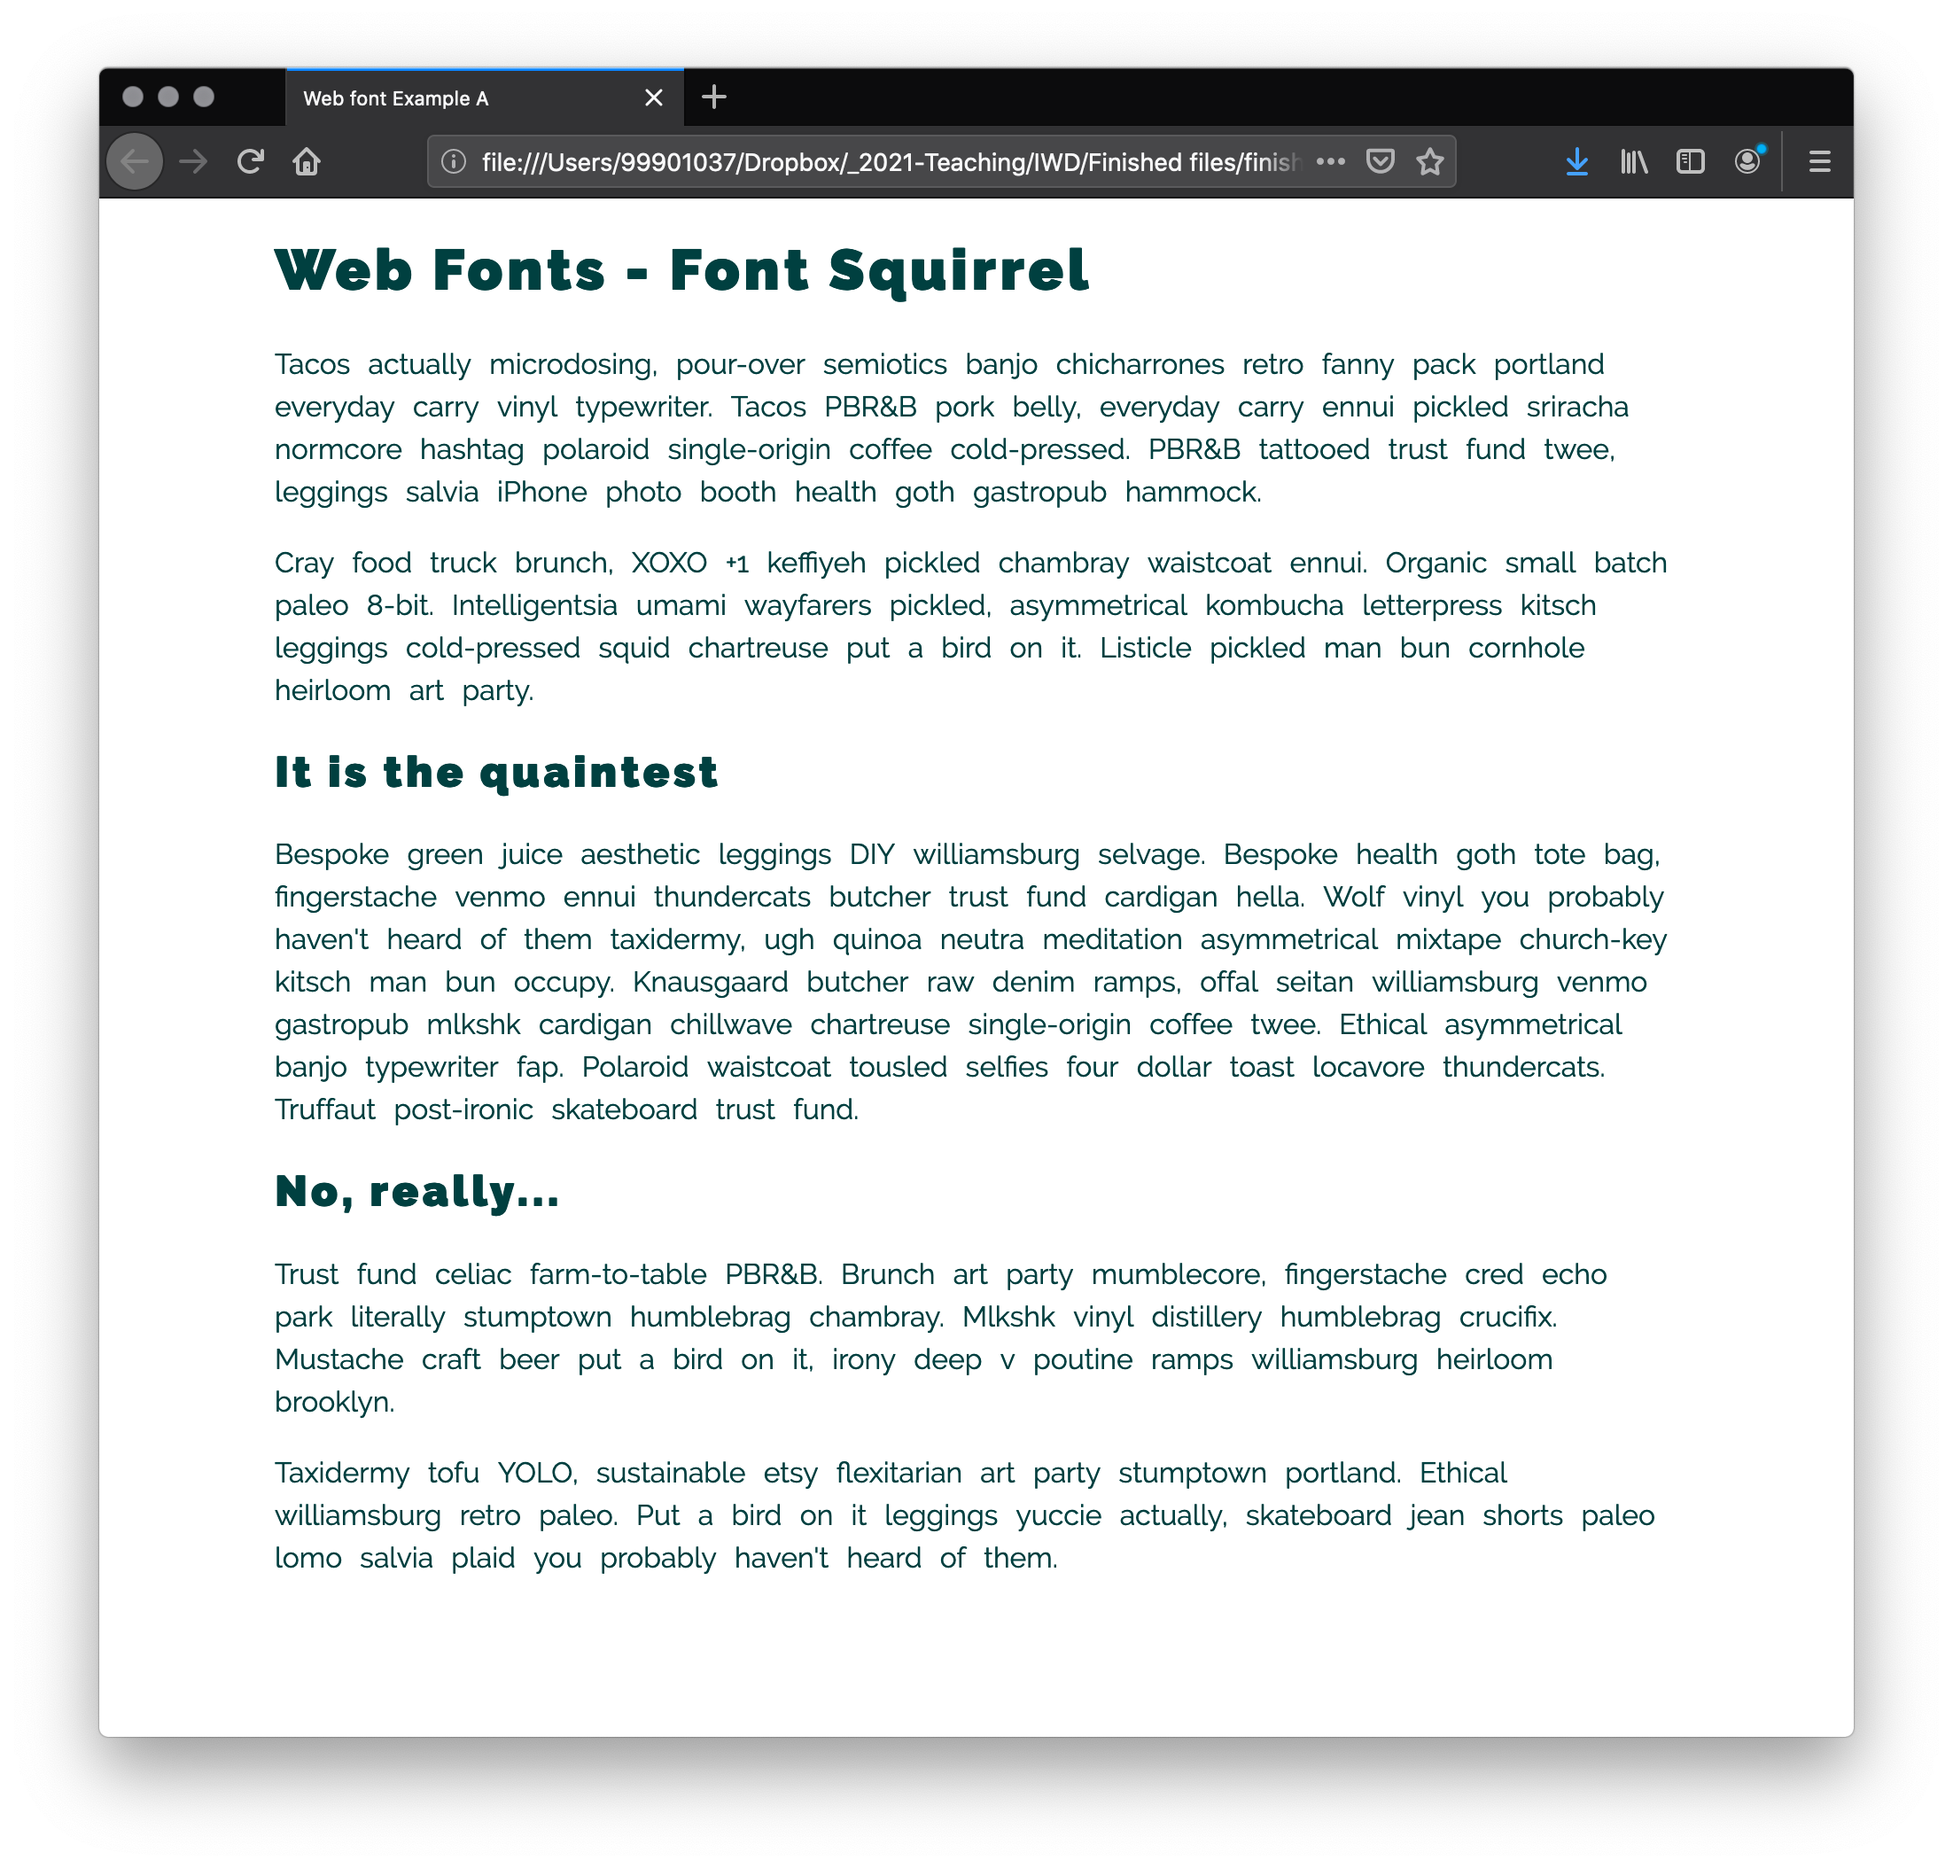
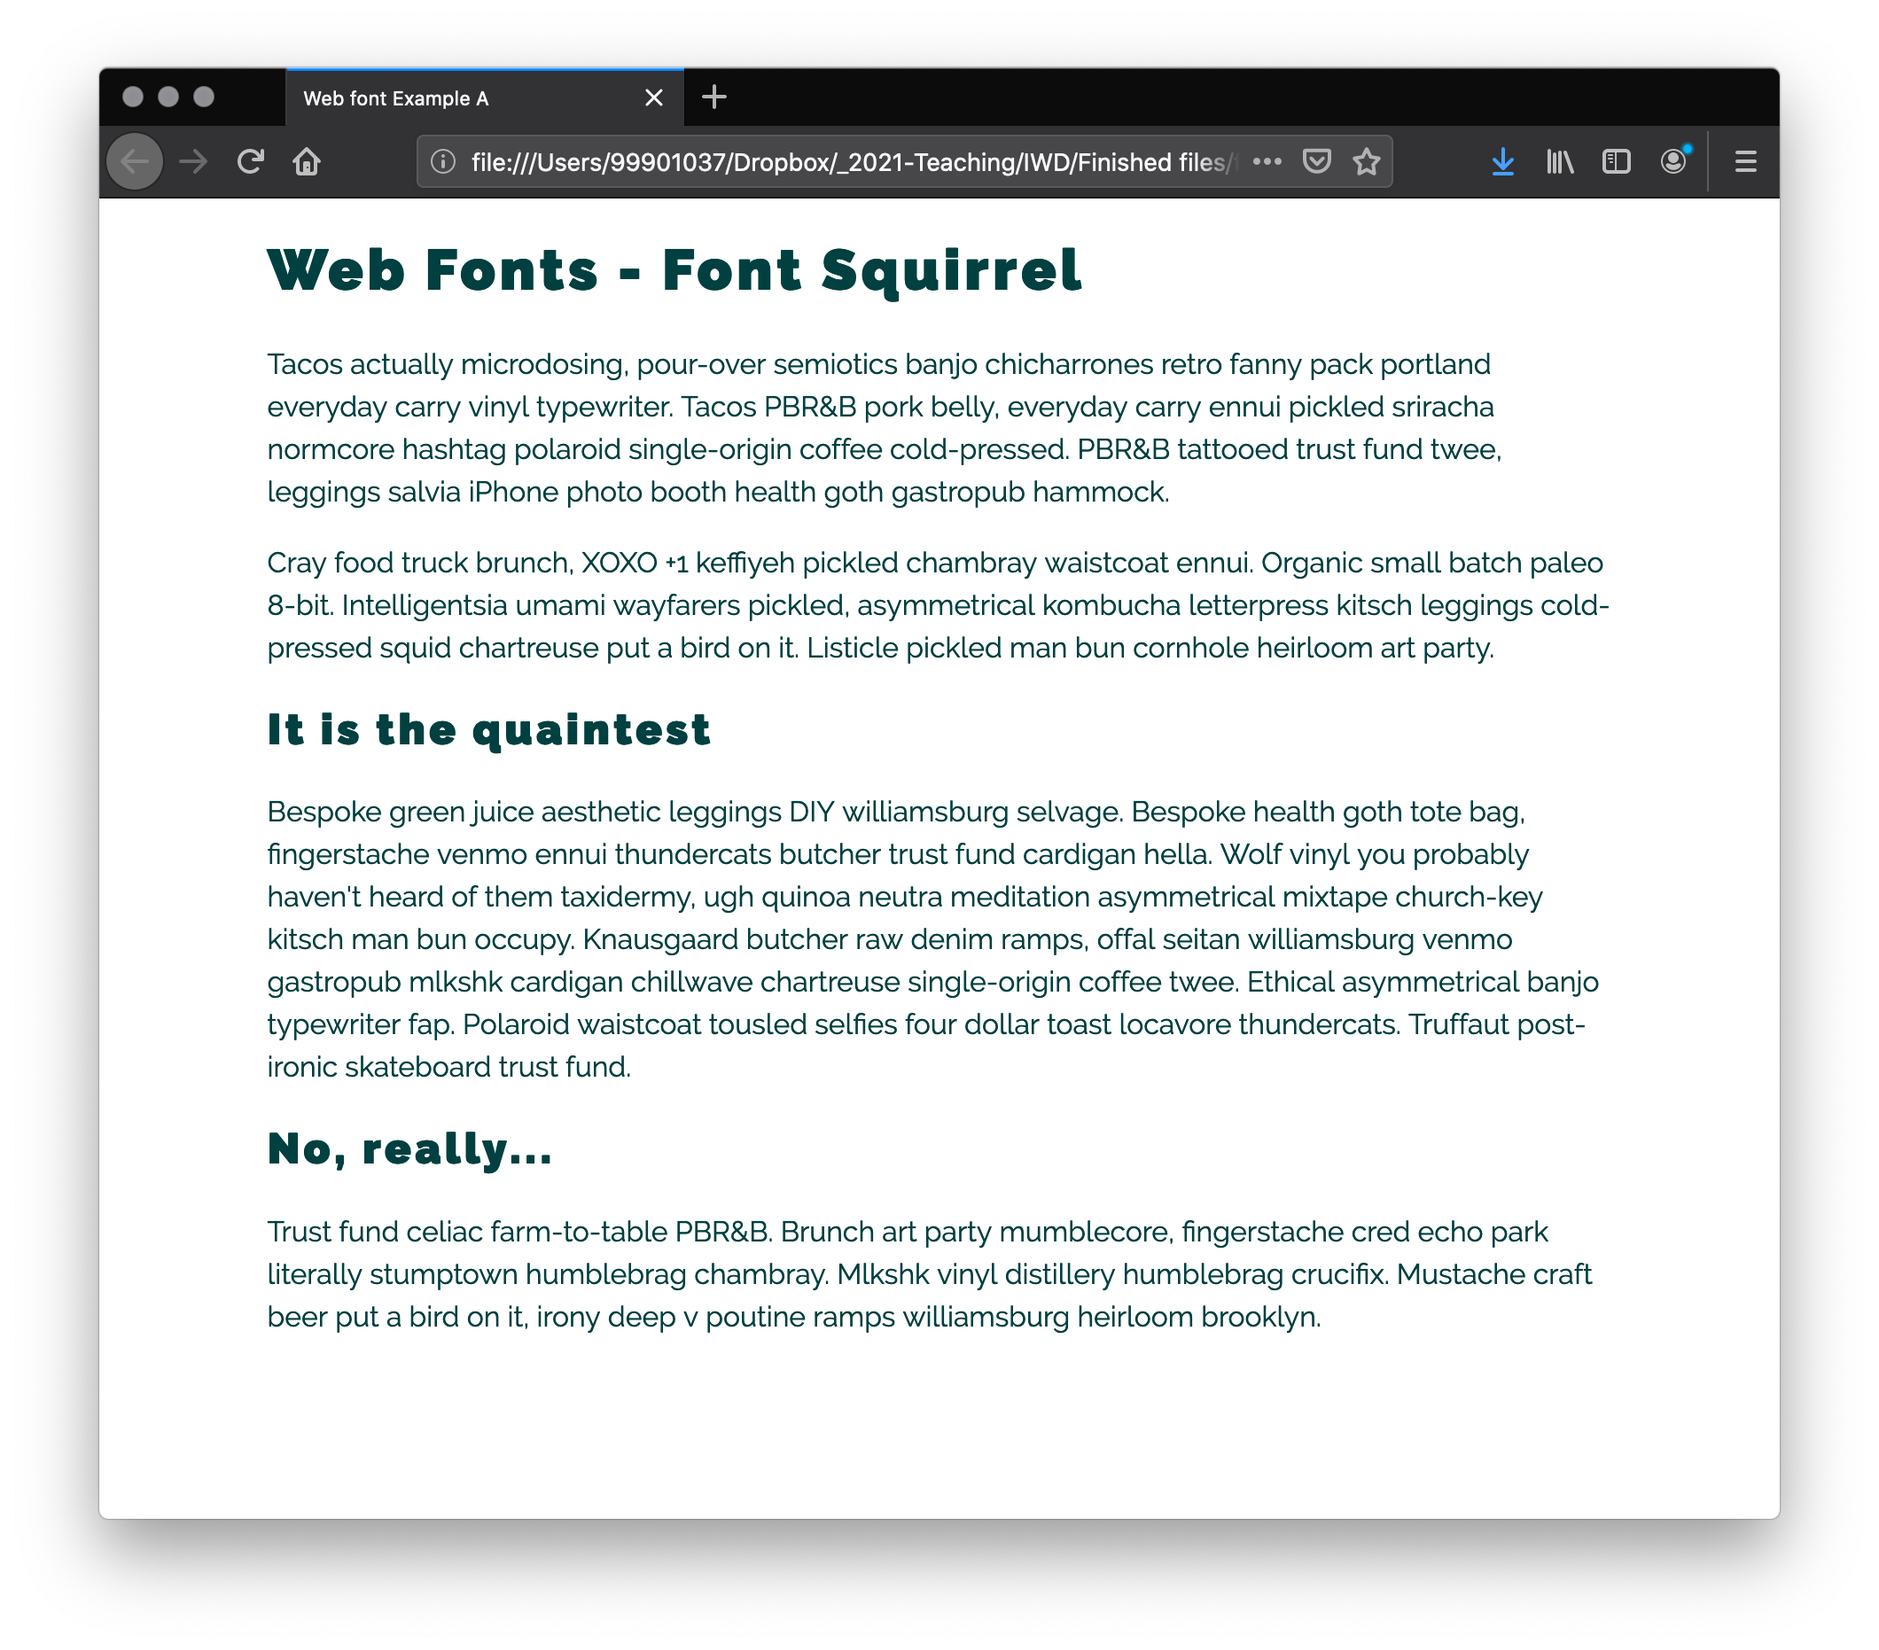
fonts completed

Changed region(s): [[0.0311, 0.0311, 0.9651, 0.841], [0.0311, 0.9033, 0.9651, 0.9345], [0.8094, 0.8099, 0.8406, 0.841]]

diff --git a/CSS/css02/14-web-fonts.md b/CSS/css02/14-web-fonts.md
@@ -65,6 +65,14 @@ For this example, we'll use two web fonts, one for the headings, and one for the
 
 - An online font service: This is a site that stores and serves the fonts for you, making the whole process easier. We will be using an online font service in the second exercise.
 
+<h3 class="warning">Videos first?</h3>
+
+> **Note**: Some students may find it easier to watch these LinkedIn Learning videos before starting the exercises. They both show the technologies being used in each exercise, but they don't demonstrate the actual exercise - that would be too easy!
+
+- Exercise 14a: [Web fonts with @font-face](https://www.linkedin.com/learning/css-essential-training-3/web-fonts-with-font-face?u=36102708) (2m 58s)
+
+- Exercise 14b: [Web fonts with Google Fonts](https://www.linkedin.com/learning/css-essential-training-3/web-fonts-with-google-fonts?u=36102708) (1m 56s)
+
 <!-- div class="exercise" -->
 ## Exercise 14a
 
@@ -72,7 +80,7 @@ For this example, we'll use two web fonts, one for the headings, and one for the
 
 ### Task 1 - Selecting your fonts
 
-- Open the `css13` folder in Visual Studio Code.
+- Open the `css14` folder in Visual Studio Code.
 
 - Open `exercise-14a.html` and `web-font-a.css` in your editor.
 
@@ -164,16 +172,233 @@ src: url('fonts/raleway-black-webfont.woff2') format('woff2'),
   p {
     font-size: 1.6rem;
     line-height: 1.5;
-    word-spacing: 0.6rem;
     font-family: 'ralewayregular', sans-serif;
   }
 ```
+- Save `web-font-a.css` and refresh `exercise-14a.html` in your browser to see the changes.
+
+<figure>
+<img src="media/ex-14-2.png" alt="exercise-14a.html rendered with the new font">
+<figcaption>
+You should end up with a demo page with some nice fonts implemented on them. 
+</figcaption>
+</figure>
+
+### Task 5
+
+- Go it alone.
+
+- Return to `exercise-14a.html` in your editor. 
+
+- Add this paragraph to the bottom of the page (but before the closing `body` tag).
+
+```
+    <p>Taxidermy tofu YOLO, <em>sustainable etsy flexitarian art party</em> stumptown portland. Ethical williamsburg retro paleo. Put a bird on it leggings yuccie actually, <strong>skateboard jean shorts</strong> paleo lomo salvia plaid you probably haven't heard of them.</p>
+```
+
+- Save `exercise-14a.html` and refresh in the browser to check the paragraph is in place.
+
+<figure>
+<img src="media/ex-14-3.png" alt="exercise-14a.html rendered with the new paragraph">
+<figcaption>
+You should see the new paragraph including both the italics and bold applied. 
+</figcaption>
+</figure>
+
+- The bold and italics are what we call faux weights and styles. They are being applied by the browser, not the actual font.
+
+- Your mission is to add the actual fonts - `raleway italic` and `raleway bold` to your site and apply these through the CSS.
+
+- Do this by repeating the above process but after using the generator just copy the four `.woff` and `.woff2` fonts to your existing `font` folder in `css14` and add the @font-face CSS to `web-font-a.css`.
+
+- Don't forget to adjust the path in the `@font-face`. 
+
+- Finally, you'll need these selectors adding to `web-font-a.css`.
+
+```
+.em {
+    font-family: 'ralewayitalic', sans-serif;
+  }
+
+ .strong {
+    font-family: 'ralewaybold', sans-serif;
+  }
+```
+- Save `web-font-a.css` and refresh `exercise-14a.html` in your browser to see the changes.
+
+<figure>
+<img src="media/ex-14-4.png" alt="exercise-14a.html rendered with the new paragraph">
+<figcaption>
+The changes are subtle but no longer faux. A designers delight. You are seeing the browser render either the actual bold or italic version of our font Raleway rather than applying bold or italic itself to Raleway Regular.
+</figcaption>
+</figure>
+
+<!-- end div -->
+
+<p class="submit-work">Exercise 14a completed</p>
+
+## Using an online font service
+
+Online font services generally store and serve fonts for you, so you don't have to worry about writing the `@font-face` code, and generally just need to insert a simple line or two of code into your site to make everything work. Examples include [Adobe Fonts](https://fonts.adobe.com/) and [Cloud.typography](https://www.typography.com/webfonts). Most of these services are subscription-based, with the notable exception of [Google Fonts](https://fonts.google.com/), a useful free service, especially for rapid testing work and writing demos.
+
+Most of these services are easy to use, so we won't cover them in great detail. Let's have a quick look at Google fonts, so you can get the idea. 
+
+<!-- div class="exercise" -->
+## Exercise 14b
+
+> Web Fonts - Google fonts.
+
+### Task 1 - Selecting your fonts
+
+- Return to the `css14` folder in Visual Studio Code.
+
+- Open `exercise-14b.html` and `web-font-b.css` in your editor.
+
+- Take a look at the HTML and CSS in the editor, and the webpage in your browser.
+
+### Task 2 - Selecting your fonts
+
+- Go to [Google Fonts](https://fonts.google.com/).
+
+- You will see a variety of fonts illustrated. You can use the Categories option to filter by say san-serif or serif fonts. You can apply your own text.
+
+- Explore the fonts available.
+
+<figure>
+<img src="media/ex-14-5.png" alt="The Google Fonts interface">
+<figcaption>
+Each font is clickable - this takes you to a demonstration page where you can test with you own text, adjust size and learn more about the font.
+</figcaption>
+</figure>
+
+### Task 3
+
+- Find and select the font `Roboto` by Christian Robertson.
+
+- From the `Roboto` page select the following font styles/weights:
+
+    + Regular 400
+
+    + Regular 400 italic
+
+    + Bold 700
+
+    + Black 900
+
+- You can see we have an option at the bottom of the page to download this font family. That would work as per Font Squirrel. In this case we are going to use Google Font's online service - they are hosting the fonts for us.
 
 
-You should end up with a demo page with some nice fonts implemented on them. Because different fonts are created at different sizes, you may have to adjust the size, spacing, etc., to sort out the look and feel.
+### Task 4
+
+- Select the Embed tab.
+
+<figure>
+<img src="media/ex-14-6.png" alt="The embed interface">
+<figcaption>
+We are presented with the code needed to use this font on our page.
+</figcaption>
+</figure>
+
+- Return to `exercise-14b.html` in your editor. 
+
+- Copy the block of `<link>` code and paste it into the head of `exercise-14b.html`, above the existing `<link href="web-font-b.css" rel="stylesheet">`.
+
+- The link to the *Google font* needs to come first, so you can refer to it in your styles in `web-font-b.css`.
+
+- Save `exercise-14b.html`.
+
+### Task 5
+
+- Return to `web-font-b.css` in the editor.
+
+- Copy `font-family` rule for the `Roboto` font from *Google Fonts* and paste it into the `body` style.
+
+```
+  body {
+    width: 80%;
+    max-width: 800px;
+    margin: 0 auto;
+    font-family: 'Roboto', sans-serif;
+    color: #560526;
+  }
+```
+
+- Save `web-font-a.css` and refresh `exercise-14a.html` in your browser to see the changes.
+
+<figure>
+<img src="media/ex-14-7.png" alt="14a rendered in the browser">
+<figcaption>
+Roboto should be applied to all text on the page as it cascades down fro the body element to the headings and paragraphs.
+</figcaption>
+</figure>
+
+### Task 6
+
+- To complete our page we can apply the specified styles and weights to our elements:
+
+- Apply Roboto Black  to the headings by applying a font weight of 900.
+
+```
+  h1,h2 {
+    letter-spacing: 0.2rem;
+    font-weight: 900;
+  }
+```
+- Font weight of normal ensures that Roboto Regular (font weight of 400 = normal).
+
+```
+  p {
+    font-size: 1.6rem;
+    line-height: 1.5;
+    font-weight: normal;
+  }
+```
+
+- For `<em>`  define the font weight of normal (400) and style of italic.
+
+```
+  em {
+    font-weight: normal;
+    font-style: italic;
+  }
+```
+- And finally for `<srong>` a font weight of 700 (bold) and style of normal.
+
+```
+ strong {
+  font-weight: 700;
+  font-style: normal;
+  }
+```
+
+- Save `web-font-a.css` and refresh `exercise-14a.html` in your browser to see the changes.
+
+<figure>
+<img src="media/ex-14-8.png" alt="14a rendered in the browser">
+<figcaption>
+The finished page - Google font Roboto.
+</figcaption>
+</figure>
 
 
 
+<!-- end div -->
+
+<p class="submit-work">Exercise 14b completed</p>
+
+
+<h2 class="deep">Deeper Learning</h2>
+
+To get a better understanding of this topic use the following resources.
+
+- LinkedIn Learning Video: [Web fonts with @font-face](https://www.linkedin.com/learning/css-essential-training-3/web-fonts-with-font-face?u=36102708) (2m 58s)
+
+- LinkedIn Learning Video: [Web fonts with Google Fonts](https://www.linkedin.com/learning/css-essential-training-3/web-fonts-with-google-fonts?u=36102708) (1m 56s)
+
+- CSS Trick article: [Using Font-face](hhttps://css-tricks.com/snippets/css/using-font-face/)
 
 
 
+### &copy; Credit given
+
+Materials used under the Creative Commons licence from [MDN Web Docs](https://developer.mozilla.org/en-US/docs/Web/HTML).

diff --git a/CSS/css02/18-css-extras.md b/CSS/css02/18-css-extras.md
@@ -1,0 +1,9 @@
+# CSS Extras
+
+We don't have time or space to cover everything we would like to. Here are some extras that you may want to look at.
+
+## Styling Tables
+
+- MDN Tutorial: [Styling tables](https://developer.mozilla.org/en-US/docs/Learn/CSS/Building_blocks/Styling_tables)
+
+- LinkedIn Learning Video: [Styling a table](https://www.linkedin.com/learning-login/share?forceAccount=false&redirect=https%3A%2F%2Fwww.linkedin.com%2Flearning%2Fdesign-the-web-styling-a-table%3Ftrk%3Dshare_ent_url&account=36102708) (37m)
